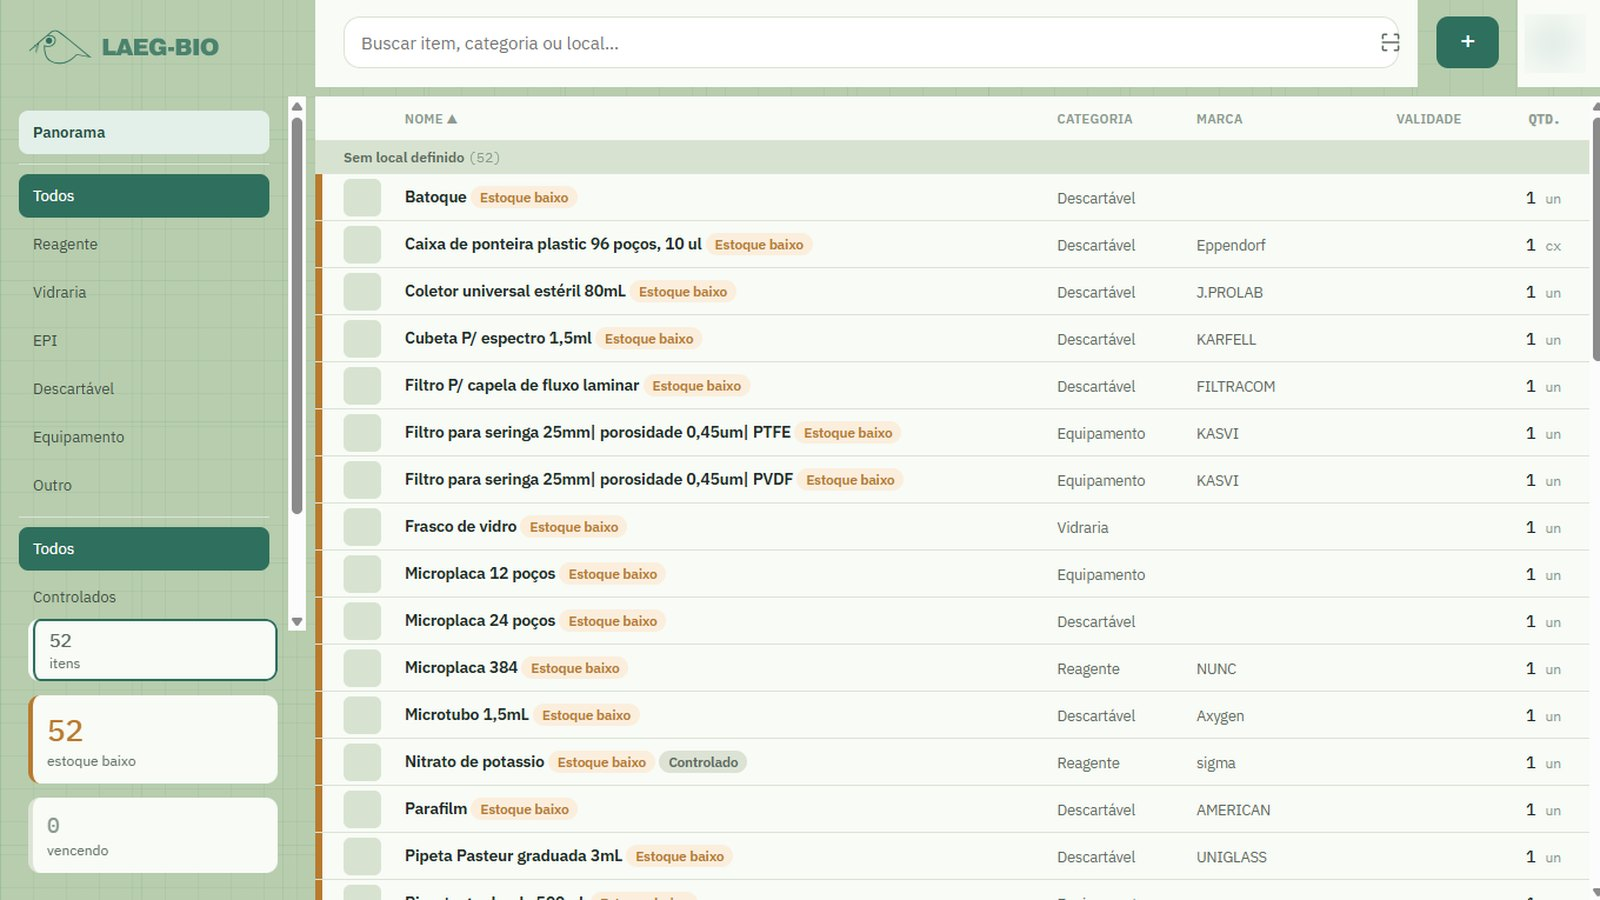
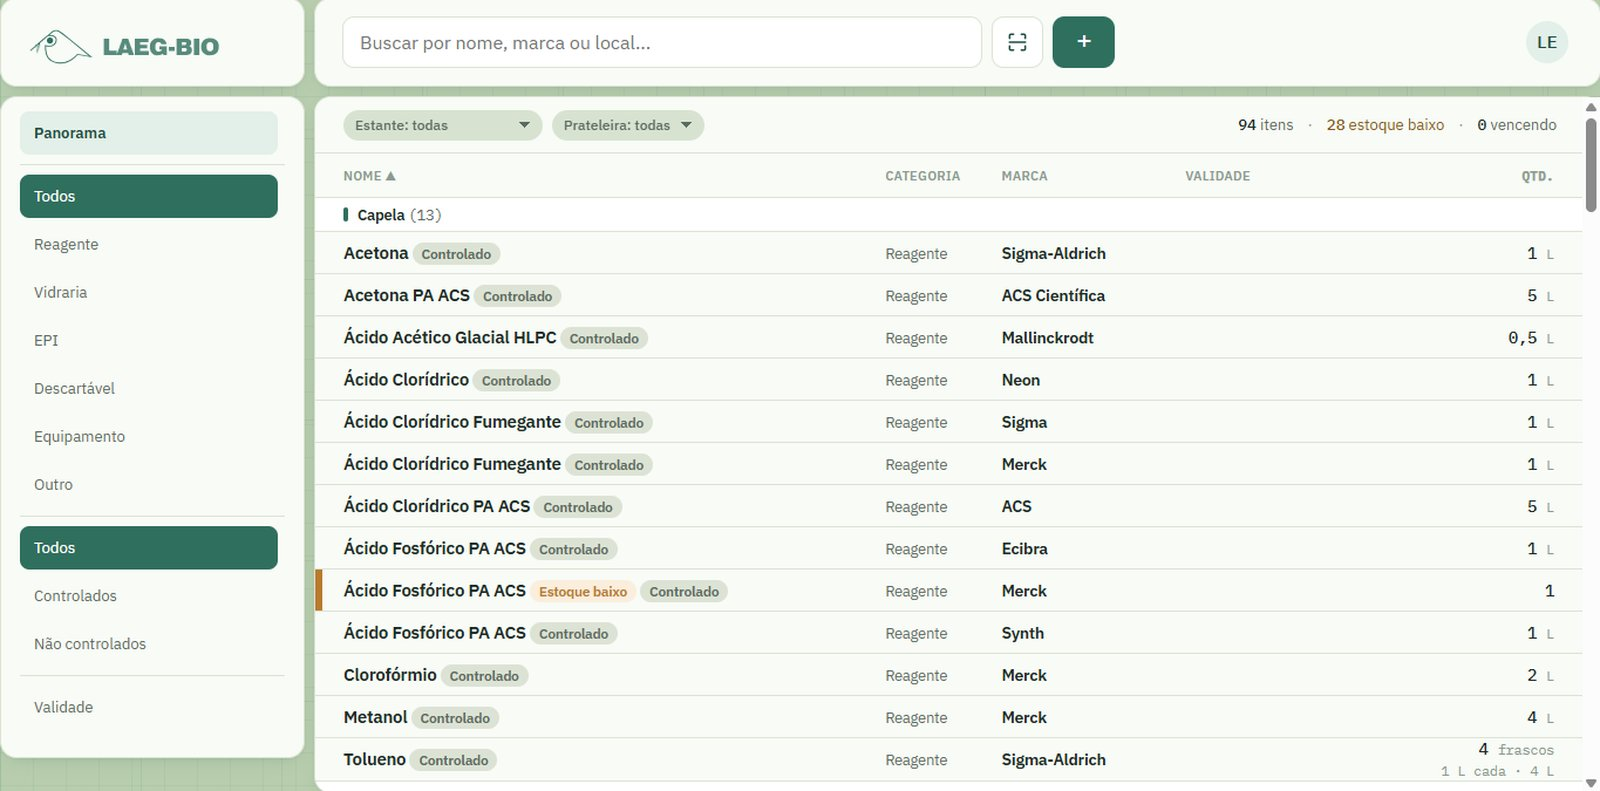
telas novas do laeg

diff --git a/src/data/site.ts b/src/data/site.ts
@@ -294,15 +294,21 @@ export const projects: Project[] = [
       {
         src: '/shots/laeg-panorama.jpg',
         caption:
-          'Painel de abertura: estoque baixo, validade e composição do acervo',
+          'Panorama: estoque baixo, validade próxima e itens sem local, antes de qualquer busca',
+      },
+      {
+        src: '/shots/laeg-ficha.jpg',
+        caption:
+          'A ficha do item, no formato de rótulo de frasco — nível em proveta, mínimo configurável e baixa registrada ali mesmo',
       },
       {
         src: '/shots/laeg-qr.jpg',
-        caption: 'Etiquetas QR geradas em lote, prontas pra impressão',
+        caption: 'Etiqueta QR do item, pronta pra colar na prateleira',
       },
       {
-        src: '/shots/laeg-login.jpg',
-        caption: 'Entrada com e-mail do laboratório e dois níveis de acesso',
+        src: '/shots/laeg-admin.jpg',
+        caption:
+          'Administração: usuários, operadores, arquivados e impressão de etiquetas em lote',
       },
     ],
   },
